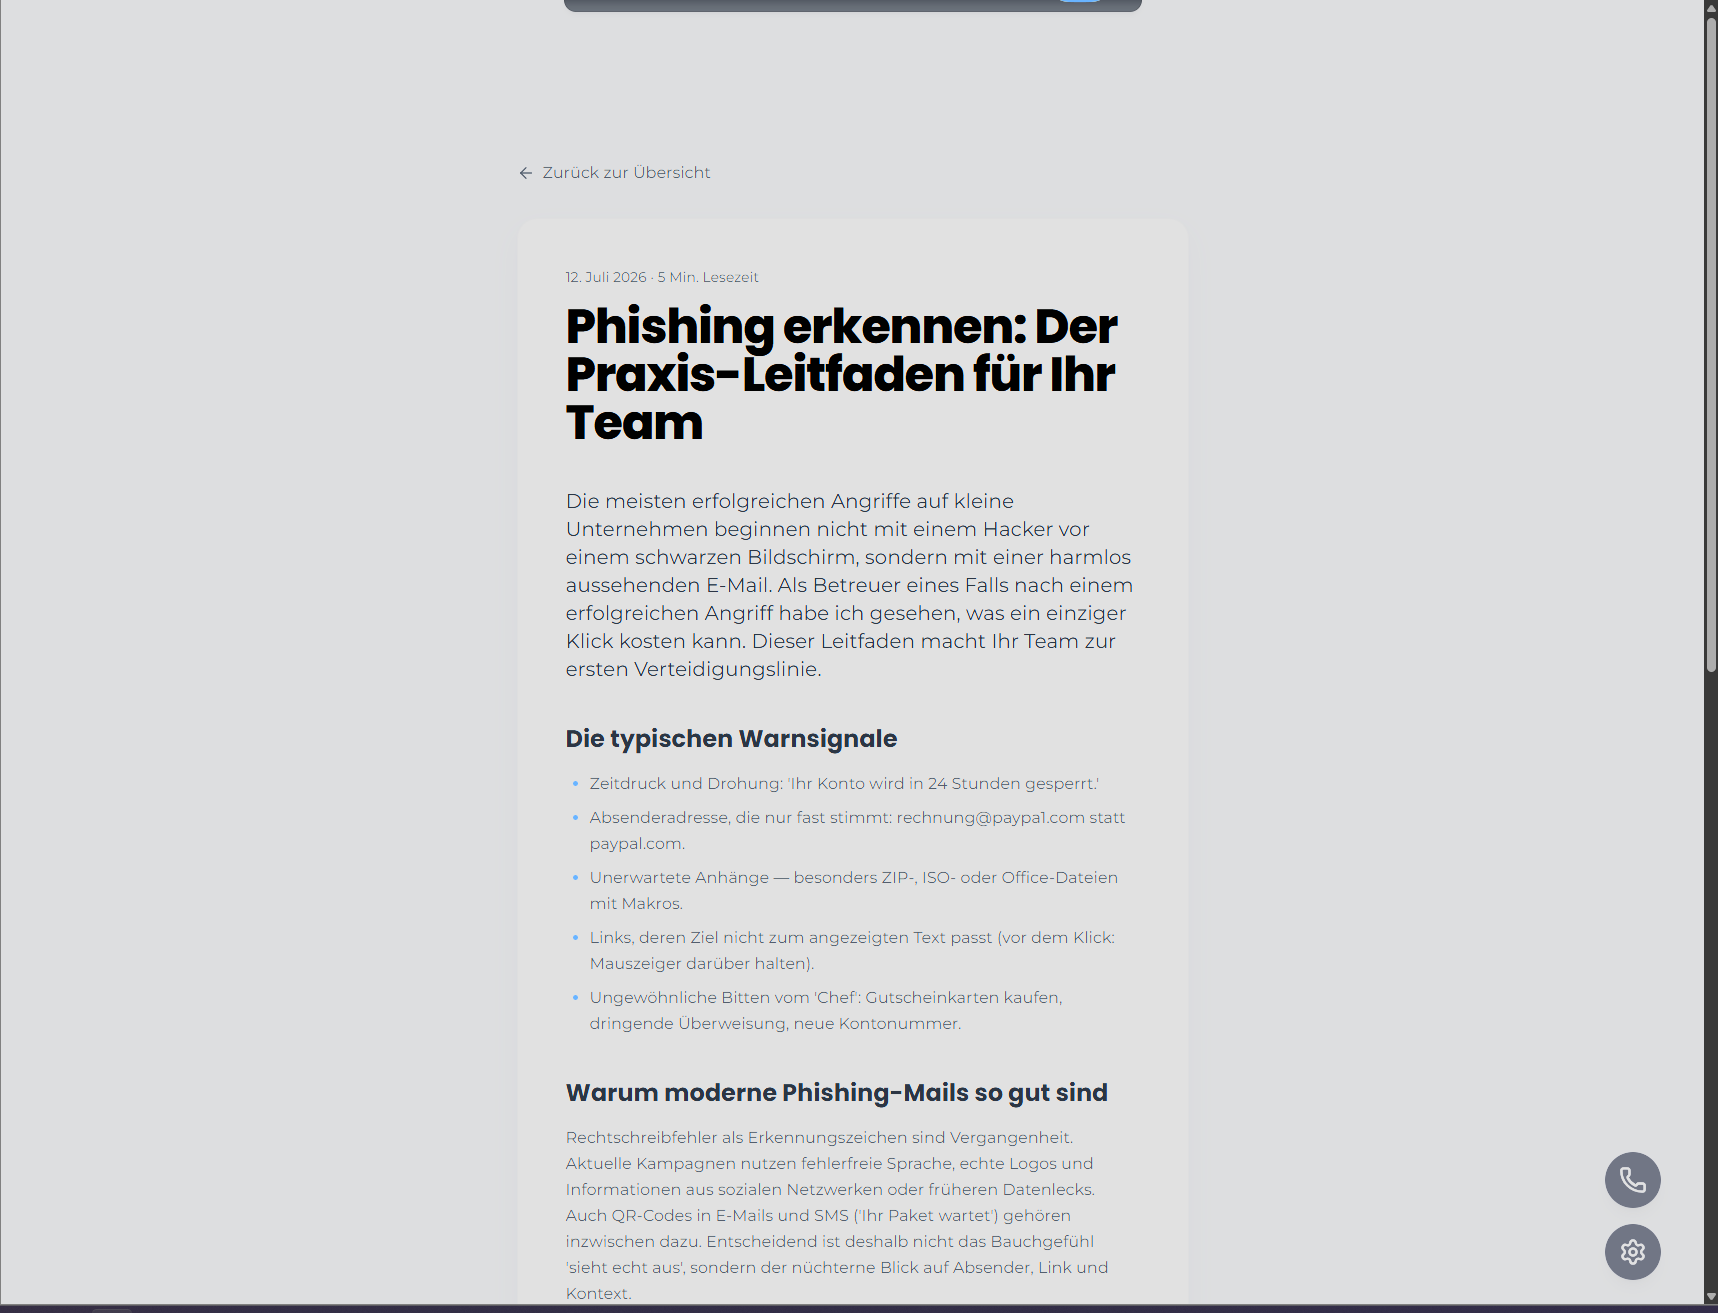
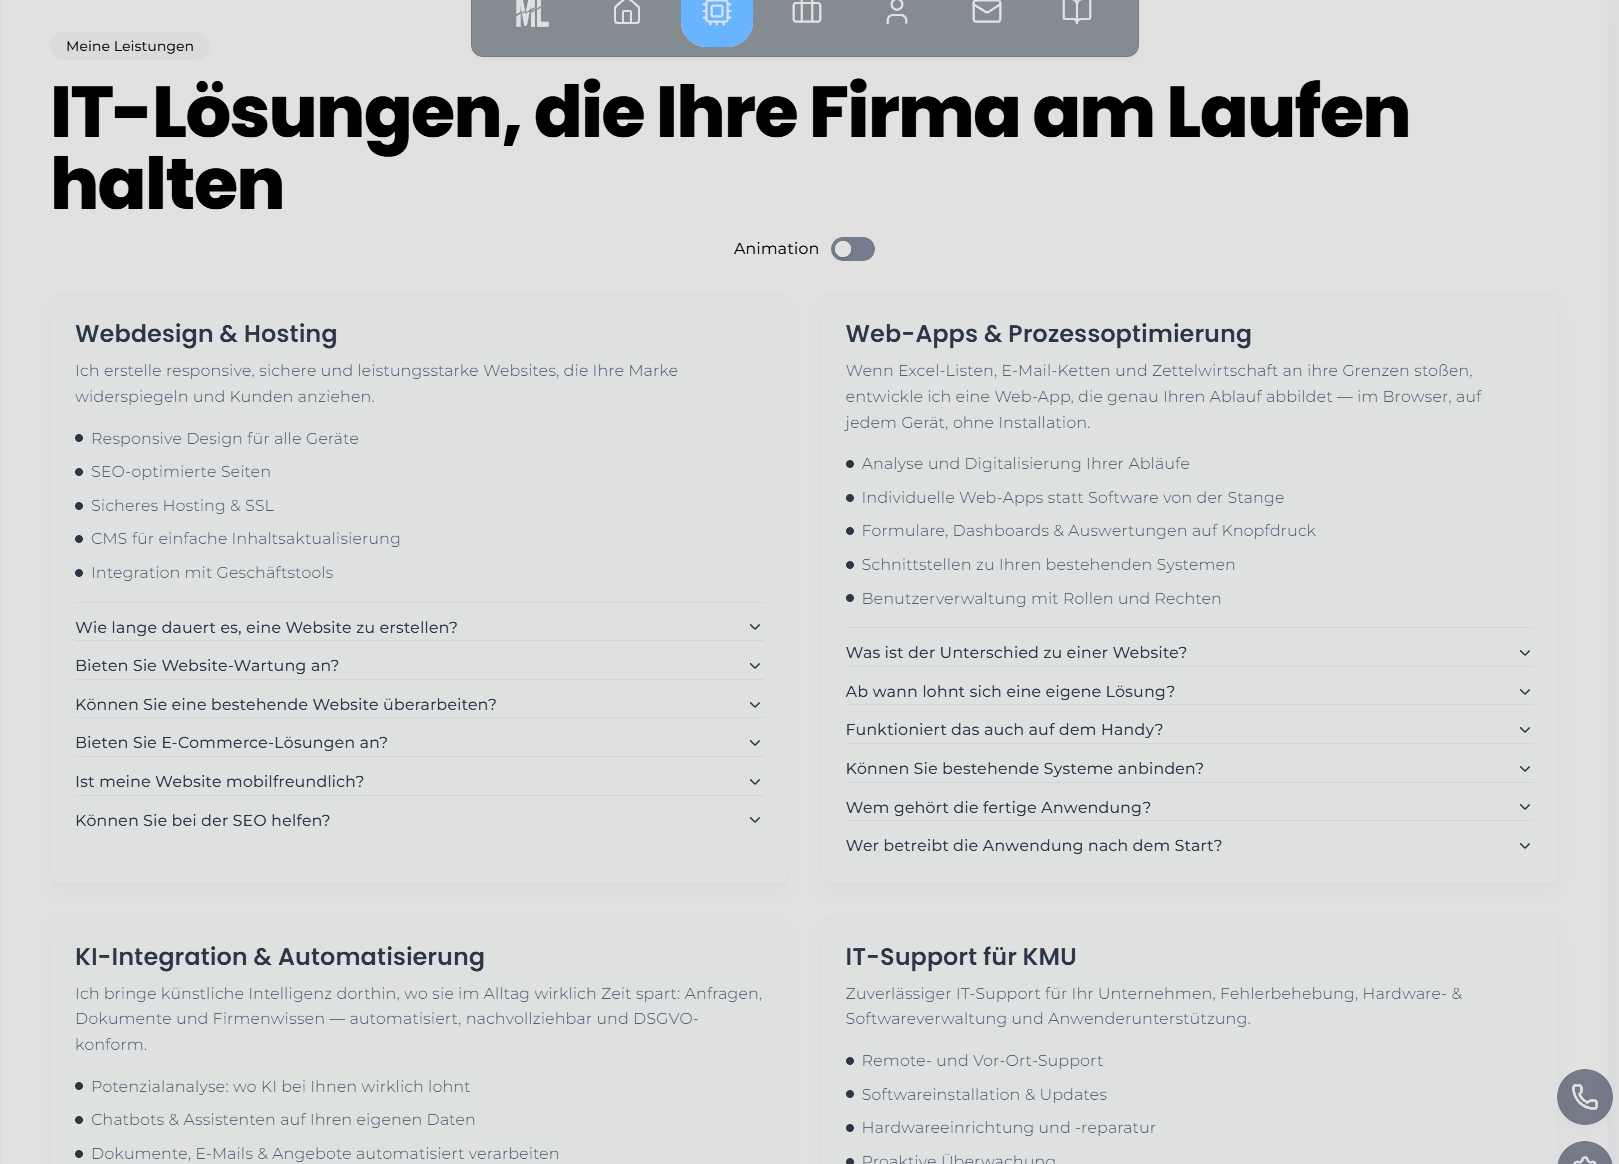
testcodesandbox items gelöscht

diff --git a/src/middleware.ts b/src/middleware.ts
@@ -1,31 +1,14 @@
-import { NextRequest, NextResponse } from 'next/server';
 import createMiddleware from 'next-intl/middleware';
-import { routing, type AppLocale } from './i18n/routing';
+import { routing } from './i18n/routing';
 
-// next-intl Middleware erstellen
-const intlMiddleware = createMiddleware(routing);
-
-export default function middleware(request: NextRequest) {
-  // Normale next-intl Middleware ausführen
-  const response = intlMiddleware(request);
-
-  // Prüfen, ob ein Redirect geplant war (z. B. auf /en)
-  if (response instanceof NextResponse && response.status === 307) {
-    const url = request.nextUrl.clone();
-
-    // Erstes Segment der URL (locale) extrahieren
-    const localeSegment = url.pathname.split('/')[1];
-
-    // Prüfen, ob es eine gültige Locale ist
-    if (!localeSegment || !routing.locales.includes(localeSegment as AppLocale)) {
-      // Immer Default-Locale /de verwenden
-      url.pathname = `/de${url.pathname}` as unknown as string;
-      return NextResponse.redirect(url);
-    }
-  }
-
-  return response;
-}
+// Reine next-intl Middleware: "/" = Deutsch (localePrefix "as-needed"),
+// "/de/..." wird auf "/..." normalisiert, "/en" und "/pl" bleiben mit Präfix.
+//
+// WICHTIG: Hier keine eigenen Locale-Redirects mehr ergänzen. Eine frühere
+// Version schickte erkannte Locales auf "/de" — das prallte an der
+// "as-needed"-Normalisierung ab und erzeugte eine Endlosschleife
+// ("/" → "/de" → "/" → ...), wodurch Google die Seite nicht indexieren konnte.
+export default createMiddleware(routing);
 
 export const config = {
   matcher: '/((?!api|trpc|_next|_vercel|.*\\..*).*)',

diff --git a/next.config.ts b/next.config.ts
@@ -2,7 +2,30 @@ import {NextConfig} from 'next';
 import createNextIntlPlugin from 'next-intl/plugin';
 
 const nextConfig: NextConfig = {
-  // Bei Bedarf weitere Optionen setzen
+  // Domain-Konsolidierung: lindner-tech.com ist die einzige indexierbare Domain.
+  async redirects() {
+    return [
+      // Die Vercel-Produktions-Domain lieferte dieselben Inhalte aus
+      // (gesplittete Ranking-Signale). 308 = permanent, vererbt die Linkkraft.
+      {
+        source: '/:path*',
+        has: [{type: 'host', value: 'markuslindner.vercel.app'}],
+        destination: 'https://lindner-tech.com/:path*',
+        permanent: true,
+      },
+    ];
+  },
+  async headers() {
+    return [
+      // Preview-Deployments (*.vercel.app) gehören nie in den Index — greift
+      // auch für robots.txt/sitemap.xml, die die Middleware nicht abdeckt.
+      {
+        source: '/:path*',
+        has: [{type: 'host', value: '.*\\.vercel\\.app'}],
+        headers: [{key: 'X-Robots-Tag', value: 'noindex, nofollow'}],
+      },
+    ];
+  },
 };
 
 const withNextIntl = createNextIntlPlugin();

diff --git a/src/i18n/routing.ts b/src/i18n/routing.ts
@@ -3,7 +3,12 @@ import { defineRouting } from 'next-intl/routing';
 export const routing = defineRouting({
   locales: ['en', 'de', 'pl'],
   defaultLocale: 'de',
-  localePrefix: 'as-needed', 
+  localePrefix: 'as-needed',
+  // Kein Redirect anhand des Accept-Language-Headers: "/" liefert immer Deutsch.
+  // Grund: Google crawlt/rendert mit "Accept-Language: en-US" — mit Detection
+  // wurde "/" zu einem Redirect statt einer indexierbaren Seite.
+  // Sprachwahl läuft ausschliesslich über den LanguageSwitcher + hreflang.
+  localeDetection: false,
 });
 
 export type AppLocale = (typeof routing.locales)[number];

diff --git a/CLAUDE.md b/CLAUDE.md
@@ -22,7 +22,8 @@ Single-page marketing site for "Lindner IT" (IT freelancer, Berlin): Next.js 15 
 
 - Locales `de` (default), `en`, `pl` are defined in `src/i18n/routing.ts` with `localePrefix: 'as-needed'` (German has no URL prefix).
 - All UI text lives in `messages/{de,en,pl}.json`; components read it via `useTranslations`. New user-facing strings must be added to all three files.
-- `src/middleware.ts` wraps the next-intl middleware and forces redirects to `/de` when the first path segment is not a valid locale.
+- `src/middleware.ts` is the plain next-intl middleware. `localeDetection` is **off** in `routing.ts`: `/` always serves German, language changes happen only via the `LanguageSwitcher`. Do not re-add header-based locale redirects — with `localePrefix: 'as-needed'` an `Accept-Language`-driven redirect to `/de` bounces straight back to `/` and produces an infinite 307 loop that blocks Google from indexing the site.
+- `next.config.ts` consolidates domains: `markuslindner.vercel.app` 308-redirects to `lindner-tech.com`, and any other `*.vercel.app` host (preview deployments) gets an `X-Robots-Tag: noindex, nofollow` header. Only `lindner-tech.com` may be indexed.
 - There is no root `src/app/layout.tsx` — `src/app/[locale]/layout.tsx` is the root layout (renders `<html lang>`, loads fonts, metadata, providers). It calls `setRequestLocale` + `generateStaticParams` so pages render statically. `src/app/[locale]/[...rest]/page.tsx` catches unknown paths and triggers `not-found.tsx`.
 - `robots.ts` and `sitemap.ts` are Next metadata routes at the `src/app/` root (crawlers expect them at `/robots.txt`, not `/de/robots.txt`). Both build URLs from `SITE_URL` in `src/lib/site.ts`, which reads `NEXT_PUBLIC_SITE_URL` (must be set in production).
 
